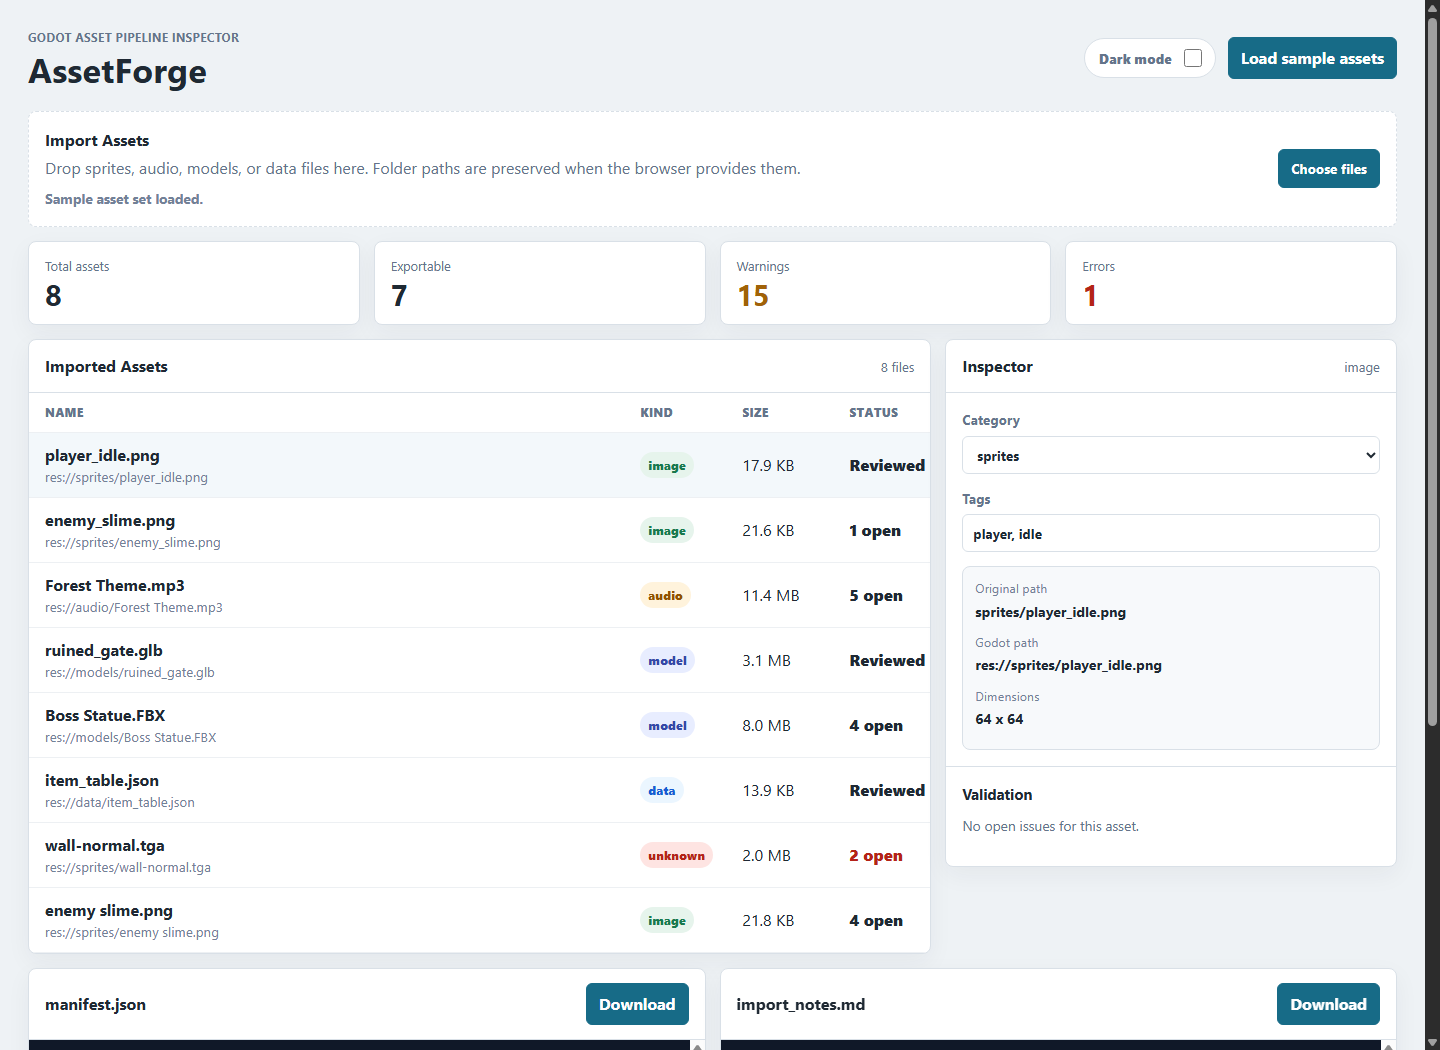
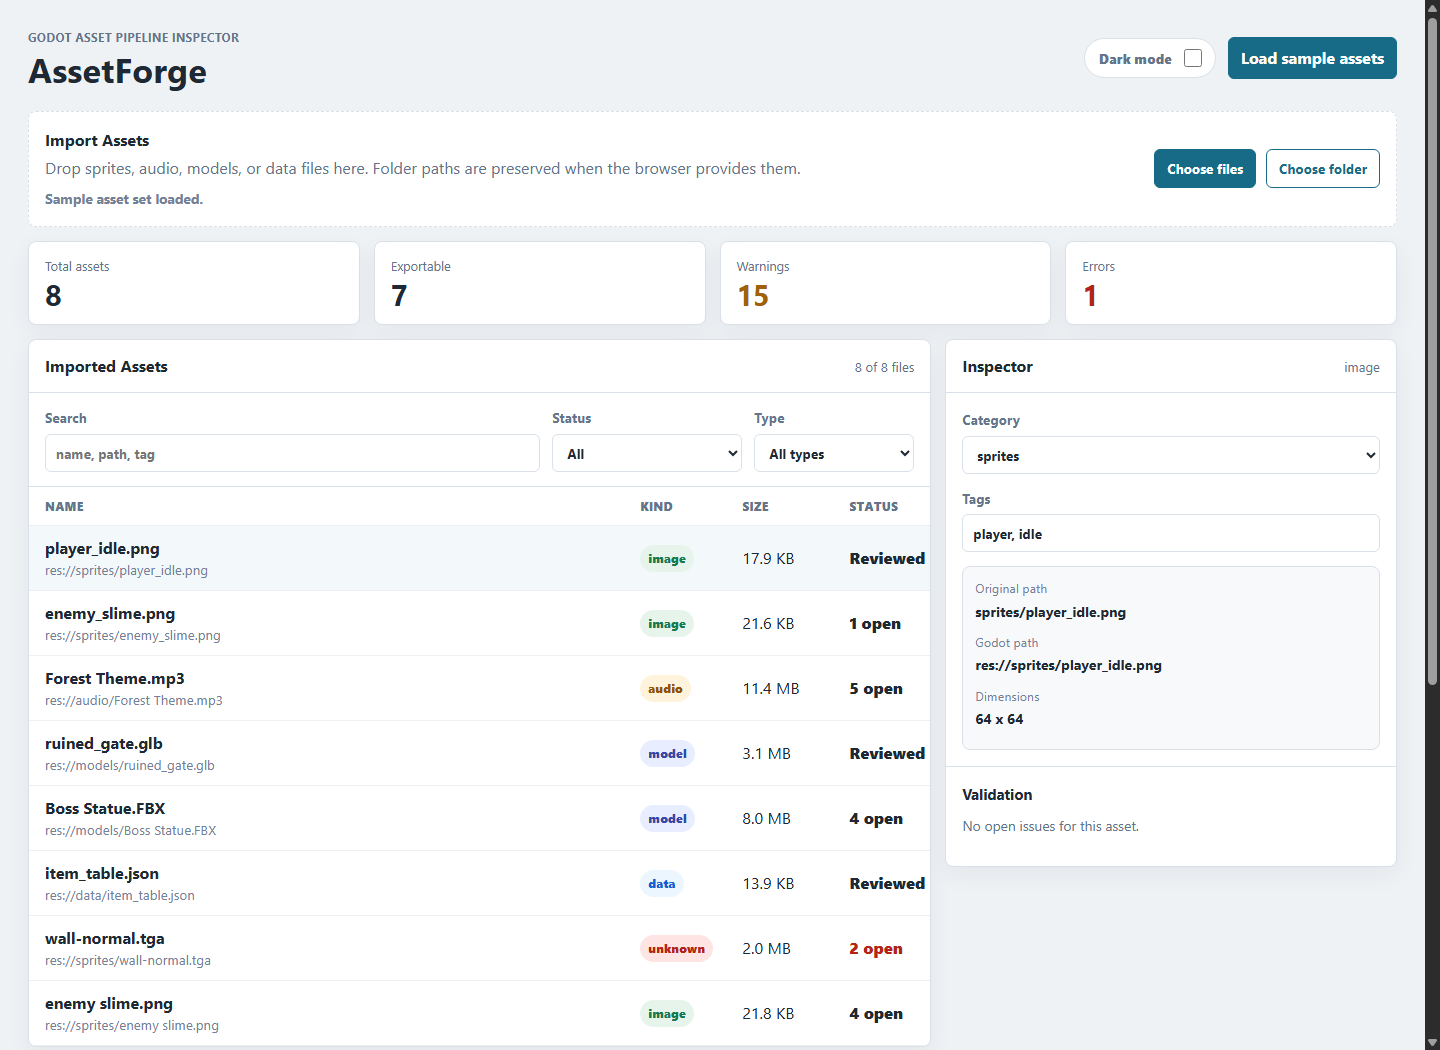
Add asset table search and filters

diff --git a/src/App.tsx b/src/App.tsx
@@ -1,6 +1,7 @@
 import { useMemo, useState } from "react";
-import type { AssetCategory, AssetRecord } from "./domain/assets";
+import type { AssetCategory, AssetKind, AssetRecord } from "./domain/assets";
 import { buildImportNotes, manifestToJson } from "./domain/exporters";
+import { filterAssets, type KindFilter, type StatusFilter } from "./domain/filters";
 import { filesToAssetRecords } from "./domain/fileImport";
 import { formatBytes, toGodotPath } from "./domain/metadata";
 import { markIssueReviewed, reviewedIssues, visibleIssues } from "./domain/review";
@@ -8,6 +9,20 @@ import { loadSampleAssets } from "./domain/sampleAssets";
 import { canExport, getIssueSummary, validateAssets } from "./domain/rules";
 
 const categories: AssetCategory[] = ["sprites", "audio", "models", "data", "misc"];
+const statusFilters: { value: StatusFilter; label: string }[] = [
+  { value: "all", label: "All" },
+  { value: "needs_attention", label: "Needs attention" },
+  { value: "reviewed", label: "Reviewed" },
+  { value: "blocked", label: "Blocked" }
+];
+const kindFilters: { value: KindFilter; label: string }[] = [
+  { value: "all", label: "All types" },
+  { value: "image", label: "Images" },
+  { value: "audio", label: "Audio" },
+  { value: "model", label: "Models" },
+  { value: "data", label: "Data" },
+  { value: "unknown", label: "Unknown" }
+];
 
 function downloadText(filename: string, content: string) {
   const blob = new Blob([content], { type: "text/plain;charset=utf-8" });
@@ -47,9 +62,16 @@ export default function App() {
   const [theme, setTheme] = useState<"light" | "dark">("light");
   const [isImporting, setIsImporting] = useState(false);
   const [importMessage, setImportMessage] = useState("Sample asset set loaded.");
+  const [query, setQuery] = useState("");
+  const [statusFilter, setStatusFilter] = useState<StatusFilter>("all");
+  const [kindFilter, setKindFilter] = useState<KindFilter>("all");
   const selectedAsset = assets.find((asset) => asset.id === selectedAssetId) ?? assets[0];
   const issueSummary = getIssueSummary(assets);
   const exportableCount = assets.filter(canExport).length;
+  const filteredAssets = useMemo(
+    () => filterAssets(assets, { query, status: statusFilter, kind: kindFilter }),
+    [assets, query, statusFilter, kindFilter]
+  );
   const manifestJson = useMemo(() => manifestToJson(assets), [assets]);
   const importNotes = useMemo(() => buildImportNotes(assets), [assets]);
 
@@ -71,6 +93,9 @@ export default function App() {
       const importedAssets = await filesToAssetRecords(fileArray);
       setAssets(importedAssets);
       setSelectedAssetId(importedAssets[0]?.id ?? "");
+      setQuery("");
+      setStatusFilter("all");
+      setKindFilter("all");
       setImportMessage(`${importedAssets.length} file${importedAssets.length === 1 ? "" : "s"} imported and validated.`);
     } finally {
       setIsImporting(false);
@@ -127,19 +152,40 @@ export default function App() {
           <p>Drop sprites, audio, models, or data files here. Folder paths are preserved when the browser provides them.</p>
           <span>{isImporting ? "Reading files..." : importMessage}</span>
         </div>
-        <label className="file-button">
-          Choose files
-          <input
-            multiple
-            onChange={(event) => {
-              if (event.target.files) {
-                void handleFiles(event.target.files);
-              }
-              event.currentTarget.value = "";
-            }}
-            type="file"
-          />
-        </label>
+        <div className="import-actions">
+          <label className="file-button">
+            Choose files
+            <input
+              multiple
+              onChange={(event) => {
+                if (event.target.files) {
+                  void handleFiles(event.target.files);
+                }
+                event.currentTarget.value = "";
+              }}
+              type="file"
+            />
+          </label>
+          <label className="file-button secondary">
+            Choose folder
+            <input
+              multiple
+              onChange={(event) => {
+                if (event.target.files) {
+                  void handleFiles(event.target.files);
+                }
+                event.currentTarget.value = "";
+              }}
+              ref={(input) => {
+                if (input) {
+                  input.setAttribute("webkitdirectory", "");
+                  input.setAttribute("directory", "");
+                }
+              }}
+              type="file"
+            />
+          </label>
+        </div>
       </section>
 
       <section className="summary-grid" aria-label="Validation summary">
@@ -165,7 +211,35 @@ export default function App() {
         <div className="panel asset-list-panel">
           <div className="panel-heading">
             <h2>Imported Assets</h2>
-            <span>{assets.length} files</span>
+            <span>
+              {filteredAssets.length} of {assets.length} files
+            </span>
+          </div>
+          <div className="table-controls">
+            <label>
+              Search
+              <input value={query} onChange={(event) => setQuery(event.target.value)} placeholder="name, path, tag" />
+            </label>
+            <label>
+              Status
+              <select value={statusFilter} onChange={(event) => setStatusFilter(event.target.value as StatusFilter)}>
+                {statusFilters.map((filter) => (
+                  <option key={filter.value} value={filter.value}>
+                    {filter.label}
+                  </option>
+                ))}
+              </select>
+            </label>
+            <label>
+              Type
+              <select value={kindFilter} onChange={(event) => setKindFilter(event.target.value as AssetKind | "all")}>
+                {kindFilters.map((filter) => (
+                  <option key={filter.value} value={filter.value}>
+                    {filter.label}
+                  </option>
+                ))}
+              </select>
+            </label>
           </div>
           <div className="asset-table">
             <div className="asset-row header-row">
@@ -174,7 +248,7 @@ export default function App() {
               <span>Size</span>
               <span>Status</span>
             </div>
-            {assets.map((asset) => (
+            {filteredAssets.map((asset) => (
               <button
                 className={`asset-row ${asset.id === selectedAsset?.id ? "selected" : ""}`}
                 key={asset.id}
@@ -191,6 +265,7 @@ export default function App() {
                 </span>
               </button>
             ))}
+            {filteredAssets.length === 0 && <p className="empty-table">No assets match the current filters.</p>}
           </div>
         </div>
 

diff --git a/src/domain/filters.test.ts b/src/domain/filters.test.ts
@@ -1,0 +1,68 @@
+import { describe, expect, it } from "vitest";
+import type { AssetRecord } from "./assets";
+import { filterAssets } from "./filters";
+import { createAssetRecord } from "./metadata";
+import { markIssueReviewed } from "./review";
+import { validateAssets } from "./rules";
+
+function sampleAssets(): AssetRecord[] {
+  const assets = validateAssets([
+    createAssetRecord({
+      id: "player",
+      name: "player_idle.png",
+      originalPath: "sprites/player_idle.png",
+      sizeBytes: 100,
+      tags: ["player", "idle"]
+    }),
+    createAssetRecord({
+      id: "music",
+      name: "Forest Theme.mp3",
+      originalPath: "Audio/Forest Theme.mp3",
+      sizeBytes: 12_000_000,
+      tags: []
+    }),
+    createAssetRecord({
+      id: "bad",
+      name: "wall-normal.tga",
+      originalPath: "textures/wall-normal.tga",
+      sizeBytes: 100,
+      tags: ["environment"]
+    })
+  ]);
+
+  return assets.map((asset) =>
+    asset.id === "music"
+      ? asset.issues.reduce((reviewedAsset, issue) => markIssueReviewed(reviewedAsset, issue.code), asset)
+      : asset
+  );
+}
+
+describe("asset filters", () => {
+  it("searches by filename, path, and tag", () => {
+    const assets = sampleAssets();
+
+    expect(filterAssets(assets, { query: "player", status: "all", kind: "all" }).map((asset) => asset.id)).toEqual(["player"]);
+    expect(filterAssets(assets, { query: "Audio", status: "all", kind: "all" }).map((asset) => asset.id)).toEqual(["music"]);
+    expect(filterAssets(assets, { query: "environment", status: "all", kind: "all" }).map((asset) => asset.id)).toEqual(["bad"]);
+  });
+
+  it("filters by review status", () => {
+    const assets = sampleAssets();
+
+    expect(filterAssets(assets, { query: "", status: "reviewed", kind: "all" }).map((asset) => asset.id)).toEqual([
+      "player",
+      "music"
+    ]);
+    expect(filterAssets(assets, { query: "", status: "needs_attention", kind: "all" }).map((asset) => asset.id)).toEqual([
+      "bad"
+    ]);
+    expect(filterAssets(assets, { query: "", status: "blocked", kind: "all" }).map((asset) => asset.id)).toEqual(["bad"]);
+  });
+
+  it("filters by asset kind", () => {
+    const assets = sampleAssets();
+
+    expect(filterAssets(assets, { query: "", status: "all", kind: "image" }).map((asset) => asset.id)).toEqual(["player"]);
+    expect(filterAssets(assets, { query: "", status: "all", kind: "unknown" }).map((asset) => asset.id)).toEqual(["bad"]);
+  });
+});

diff --git a/src/domain/filters.ts b/src/domain/filters.ts
@@ -1,0 +1,45 @@
+import type { AssetKind, AssetRecord } from "./assets";
+import { visibleIssues } from "./review";
+
+export type StatusFilter = "all" | "needs_attention" | "reviewed" | "blocked";
+export type KindFilter = AssetKind | "all";
+
+export type AssetFilters = {
+  query: string;
+  status: StatusFilter;
+  kind: KindFilter;
+};
+
+function hasBlockingError(asset: AssetRecord): boolean {
+  return asset.issues.some((issue) => issue.severity === "error");
+}
+
+function matchesStatus(asset: AssetRecord, status: StatusFilter): boolean {
+  switch (status) {
+    case "all":
+      return true;
+    case "needs_attention":
+      return visibleIssues(asset).length > 0;
+    case "reviewed":
+      return visibleIssues(asset).length === 0;
+    case "blocked":
+      return hasBlockingError(asset);
+  }
+}
+
+function matchesQuery(asset: AssetRecord, query: string): boolean {
+  const normalizedQuery = query.trim().toLowerCase();
+  if (!normalizedQuery) return true;
+
+  return [asset.name, asset.originalPath, asset.godotPath, asset.kind, asset.category ?? "", ...asset.tags]
+    .join(" ")
+    .toLowerCase()
+    .includes(normalizedQuery);
+}
+
+export function filterAssets(assets: AssetRecord[], filters: AssetFilters): AssetRecord[] {
+  return assets.filter((asset) => {
+    const kindMatches = filters.kind === "all" || asset.kind === filters.kind;
+    return kindMatches && matchesStatus(asset, filters.status) && matchesQuery(asset, filters.query);
+  });
+}

diff --git a/src/styles.css b/src/styles.css
@@ -141,6 +141,11 @@ h3 {
   padding: 8px 12px;
 }
 
+.file-button.secondary {
+  background: transparent;
+  color: #176b87;
+}
+
 .file-button input {
   height: 1px;
   opacity: 0;
@@ -159,6 +164,13 @@ h3 {
   justify-content: space-between;
   margin-bottom: 14px;
   padding: 16px;
+}
+
+.import-actions {
+  align-items: center;
+  display: flex;
+  flex: 0 0 auto;
+  gap: 10px;
 }
 
 .import-panel h2 {
@@ -247,6 +259,14 @@ h3 {
   display: grid;
 }
 
+.table-controls {
+  border-bottom: 1px solid var(--panel-border);
+  display: grid;
+  gap: 12px;
+  grid-template-columns: minmax(220px, 1fr) 190px 160px;
+  padding: 14px 16px;
+}
+
 .asset-row {
   align-items: center;
   background: transparent;
@@ -280,6 +300,12 @@ h3 {
   color: var(--subtle);
   display: block;
   overflow-wrap: anywhere;
+}
+
+.empty-table {
+  color: var(--muted);
+  margin: 0;
+  padding: 22px 16px;
 }
 
 .pill {
@@ -470,6 +496,13 @@ pre {
   .import-panel {
     align-items: stretch;
     flex-direction: column;
+  }
+
+  .import-actions,
+  .table-controls {
+    align-items: stretch;
+    flex-direction: column;
+    display: flex;
   }
 
   .header-actions {

diff --git a/README.md b/README.md
@@ -26,6 +26,8 @@ The first version focuses on a practical workflow:
 
 - Sample 2D, audio, model, and data assets
 - Drag-and-drop and file picker import
+- Folder import for preserving browser-provided relative paths
+- Search and filters by status and asset type
 - Image dimension detection for imported browser files
 - Lightweight 3D metadata support for `.glb`, `.gltf`, `.fbx`, and `.obj`
 - Godot-style `res://` path generation